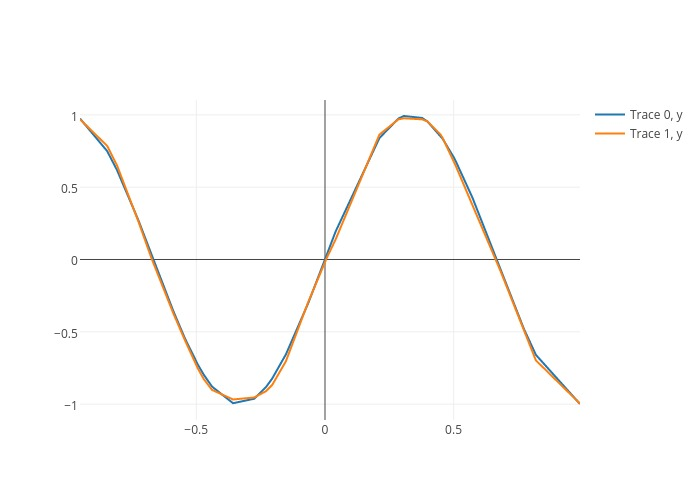
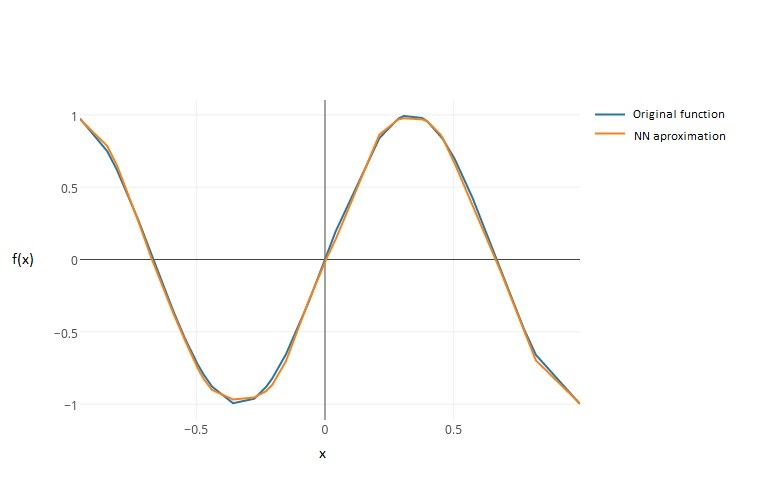
graphics

diff --git a/Neuronal_Network.py b/Neuronal_Network.py
@@ -186,7 +186,7 @@ seed(1)
 function = second_function
 n_hidden = 50
 l_train = 0.1
-epochs = 100000
+epochs = 500
 
 dataset = createDataset(function, 40, -1, 1)
 #number of variables on input
@@ -205,25 +205,22 @@ for row in dataset:
 inputs = get_from_dataset(dataset, 0)
 expecteds= get_from_dataset(dataset, -1)
 
-# epochs = list(xrange(100))
-# print epochs
-# error = Scatter(
-# 	x=epochs,
-# 	y=sum_errors
+epochs = list(xrange(500))
+print epochs
+error = Scatter(
+	x=epochs,
+	y=sum_errors
+)
+# original = Scatter(
+# 	x=inputs,
+# 	y=expecteds
 # )
-original = Scatter(
-	x=inputs,
-	y=expecteds
-)
-network_prediction = Scatter(
-	x=inputs,
-	y=predictions
-)
-data = Data([original, network_prediction])
+# network_prediction = Scatter(
+# 	x=inputs,
+# 	y=predictions
+# )
+# data = Data([original, network_prediction])
+data = Data([error])
 
-py.plot(data, filename = 'second_function 100000 NN')
-# for layer in network:
+py.plot(data, filename = 'Error in second_function 500')
 
-
-
-# 	print(layer)
